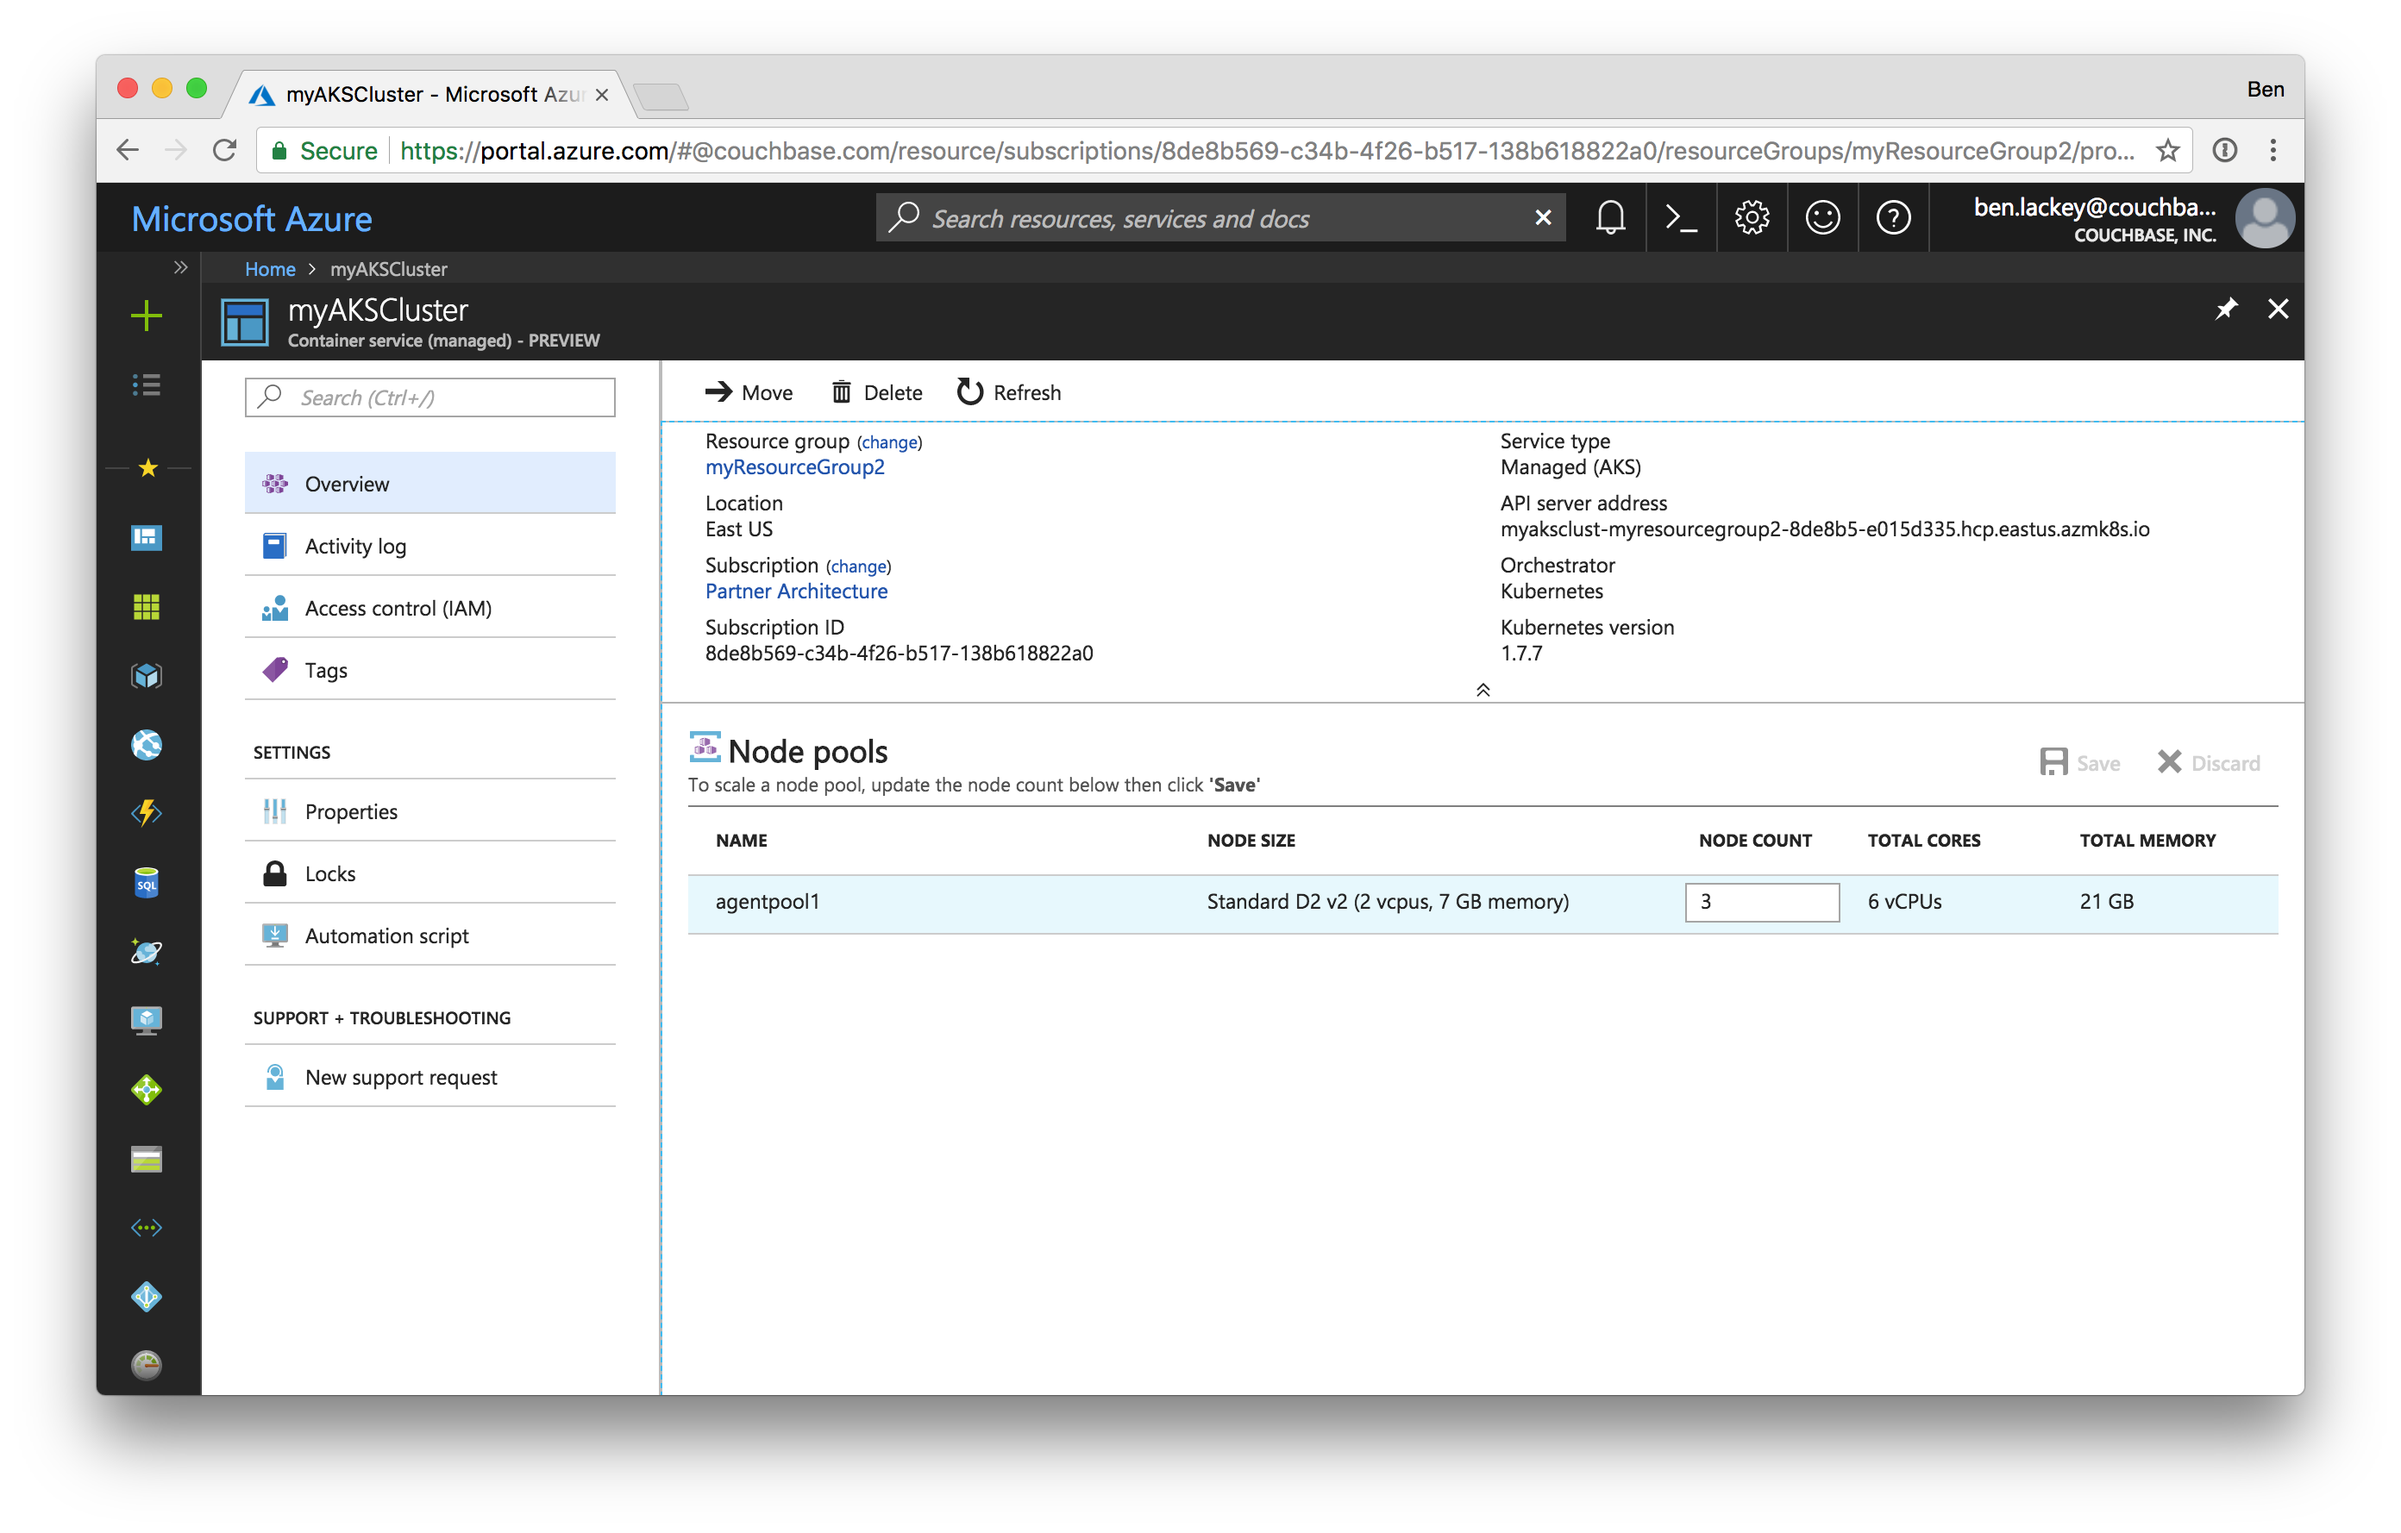
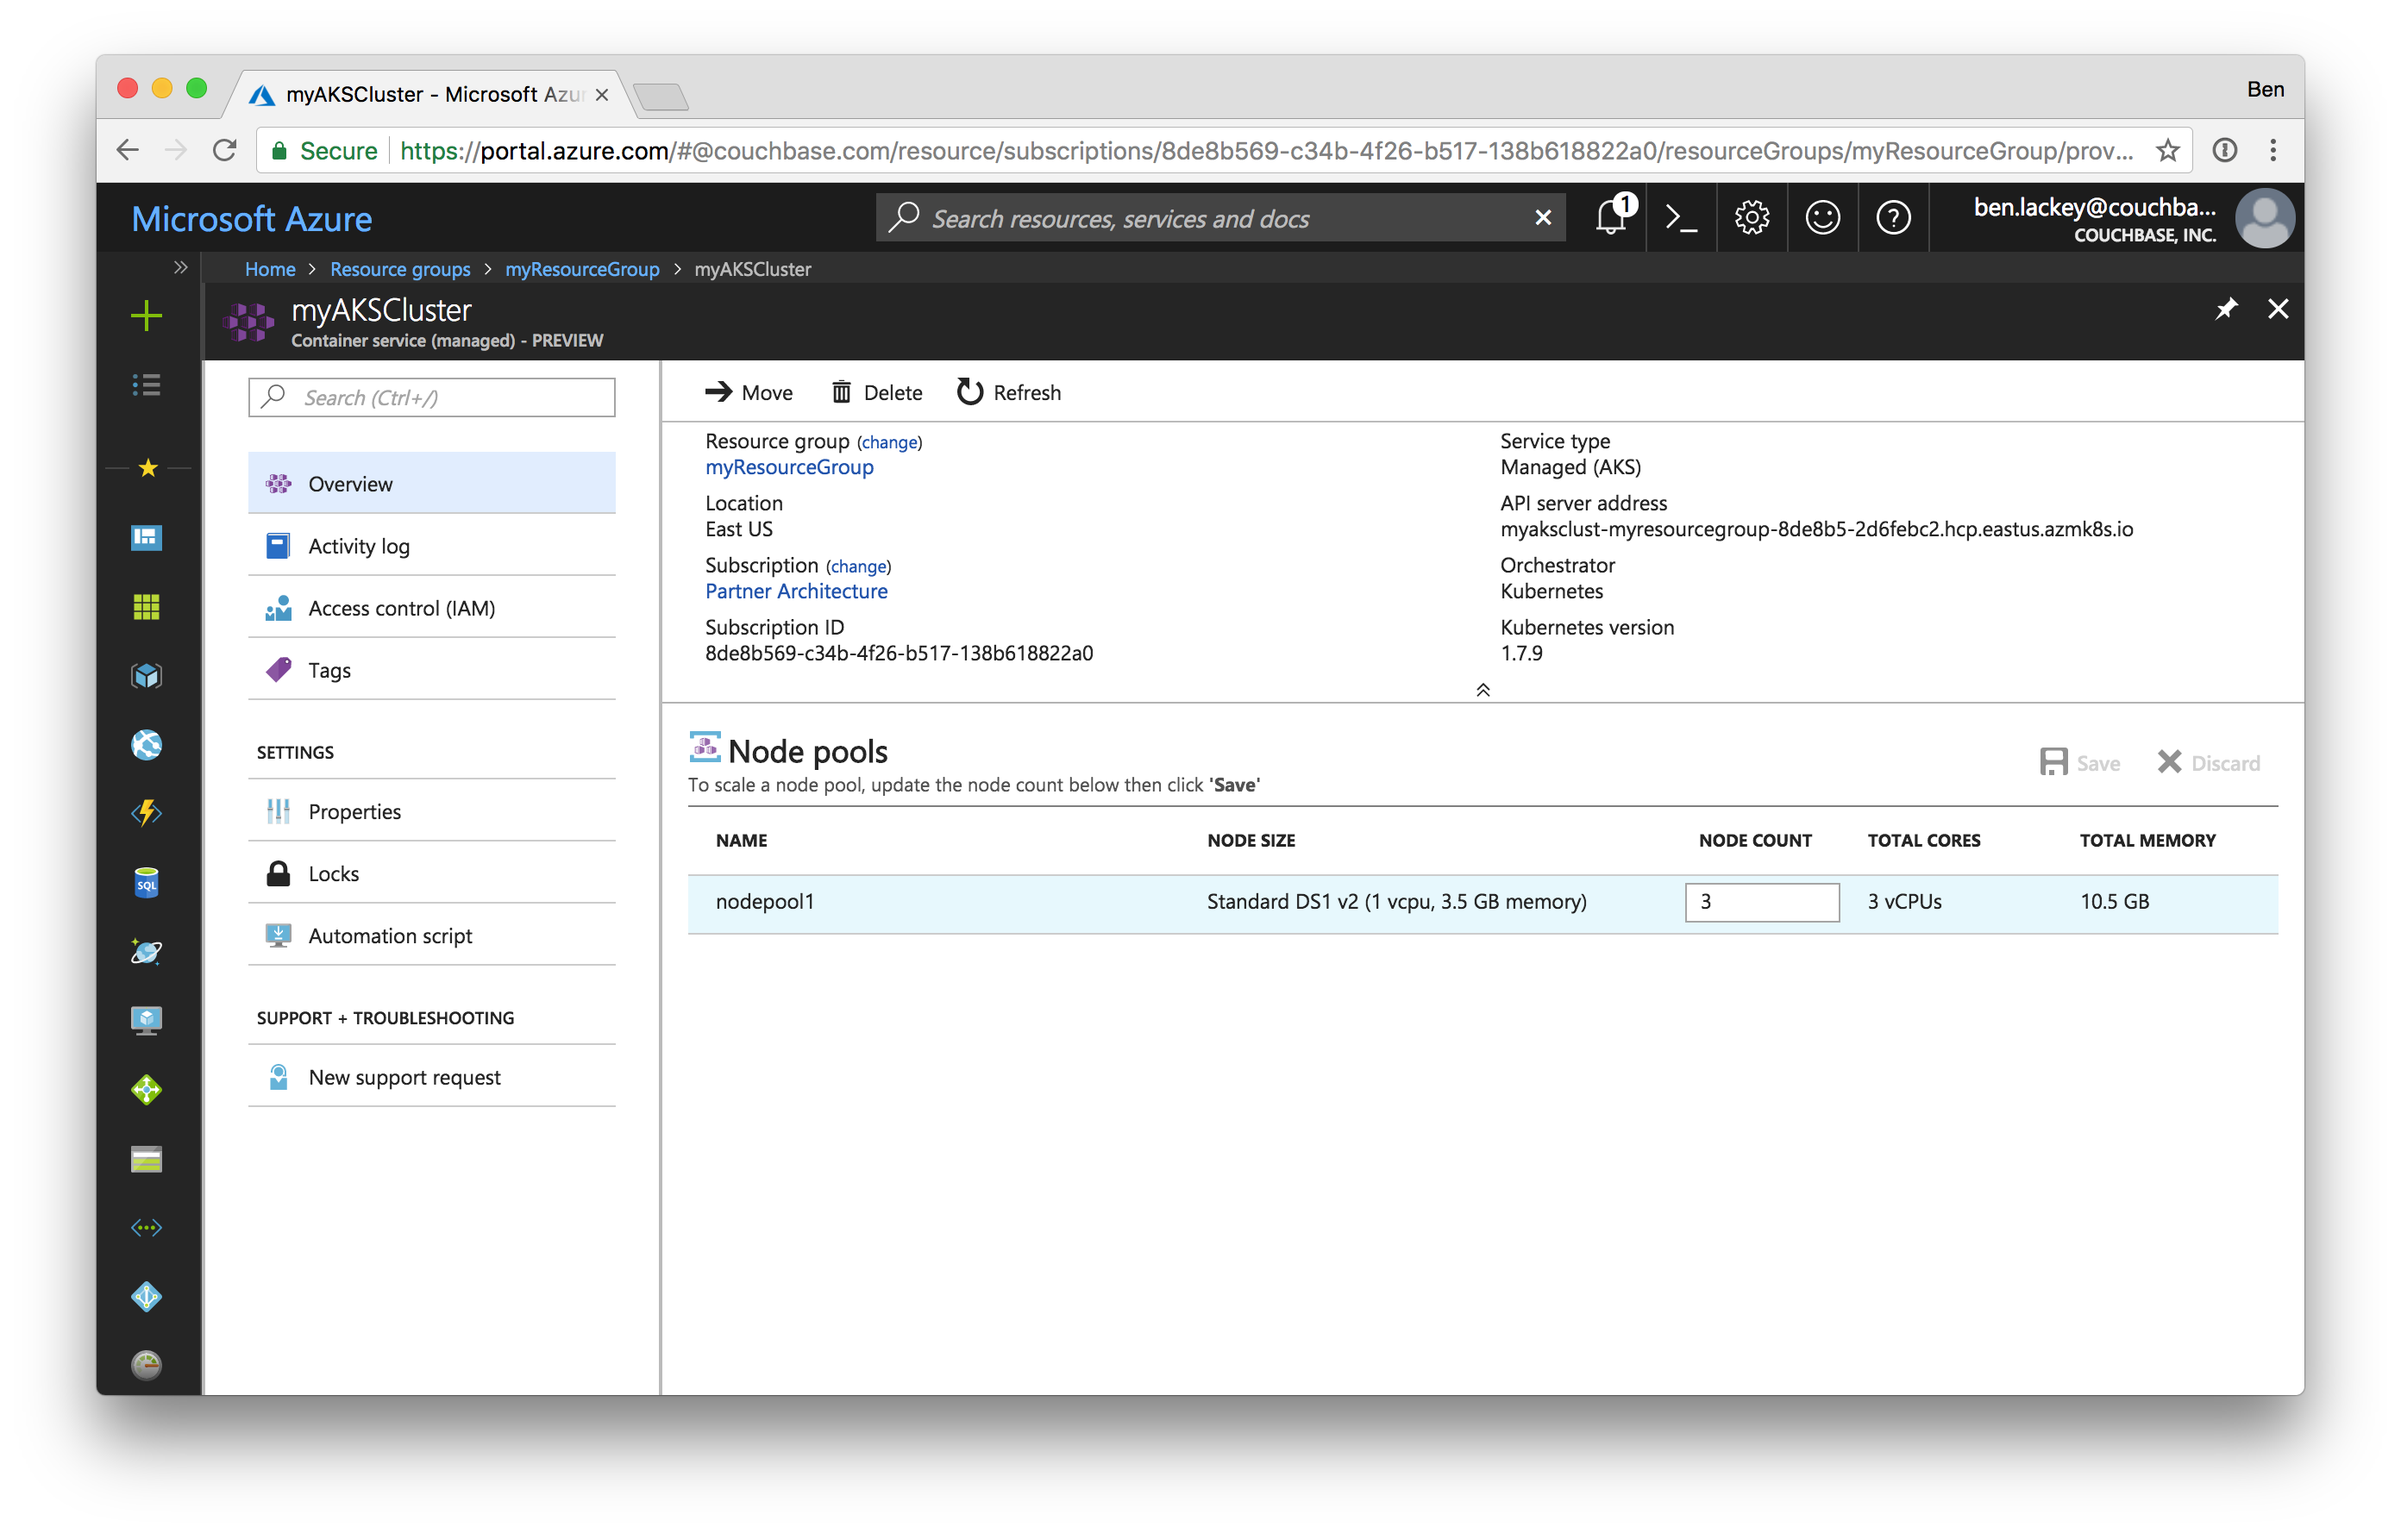
update images

diff --git a/README.md b/README.md
@@ -27,9 +27,9 @@ Now you're ready to create a resource group and a cluster inside that:
 
 Note that it's way easier to do this from the CLI because the CLI creates the service principal you need automatically.  If you do this in the portal you'll need to create the service principal manually.
 
-![deploying](/images/deploying.png)
+![deploying](/images/deployed.png)
 
-You can now login to the [Azure Portal](https://portal.azure.com) and take a look at your new cluster there as well:
+When that's done, or even while it's running, you can login to the [Azure Portal](https://portal.azure.com) and take a look at your new cluster there as well:
 
 ![portal](/images/portal.png)
 
